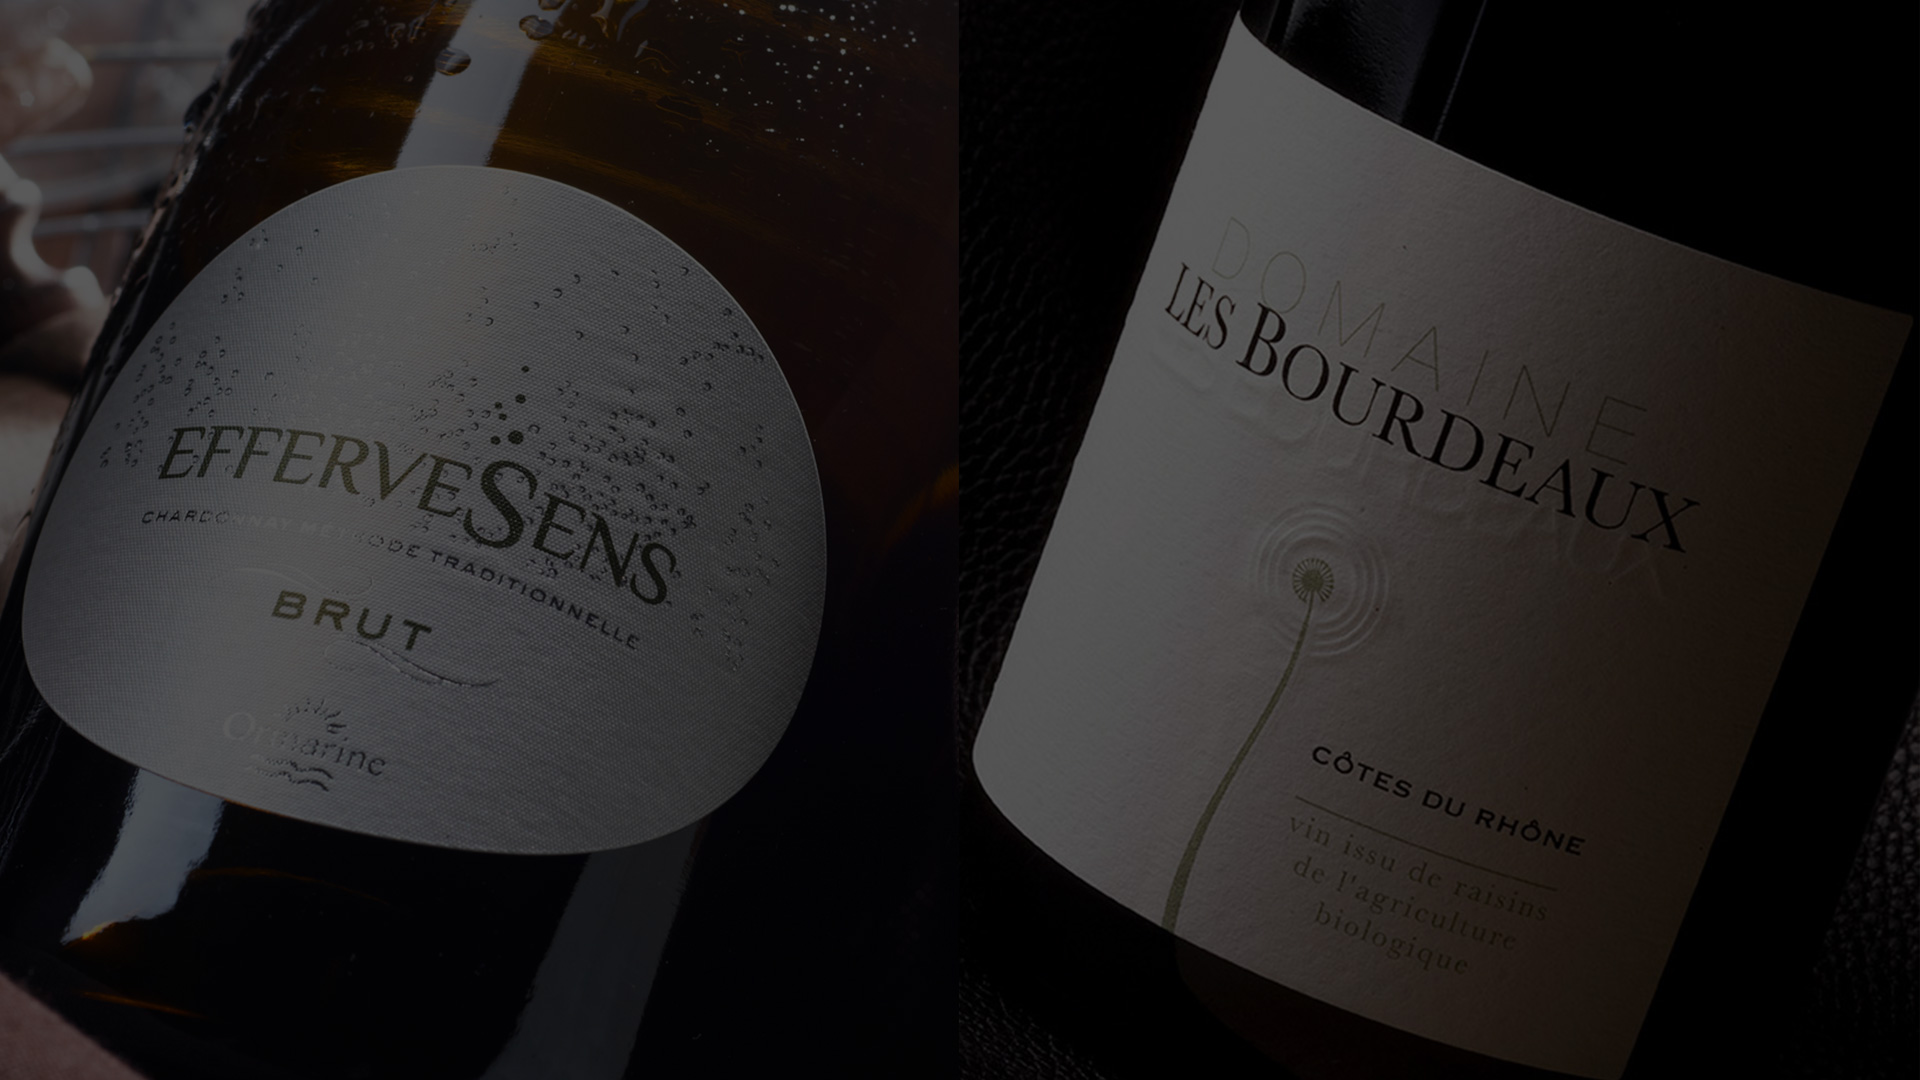
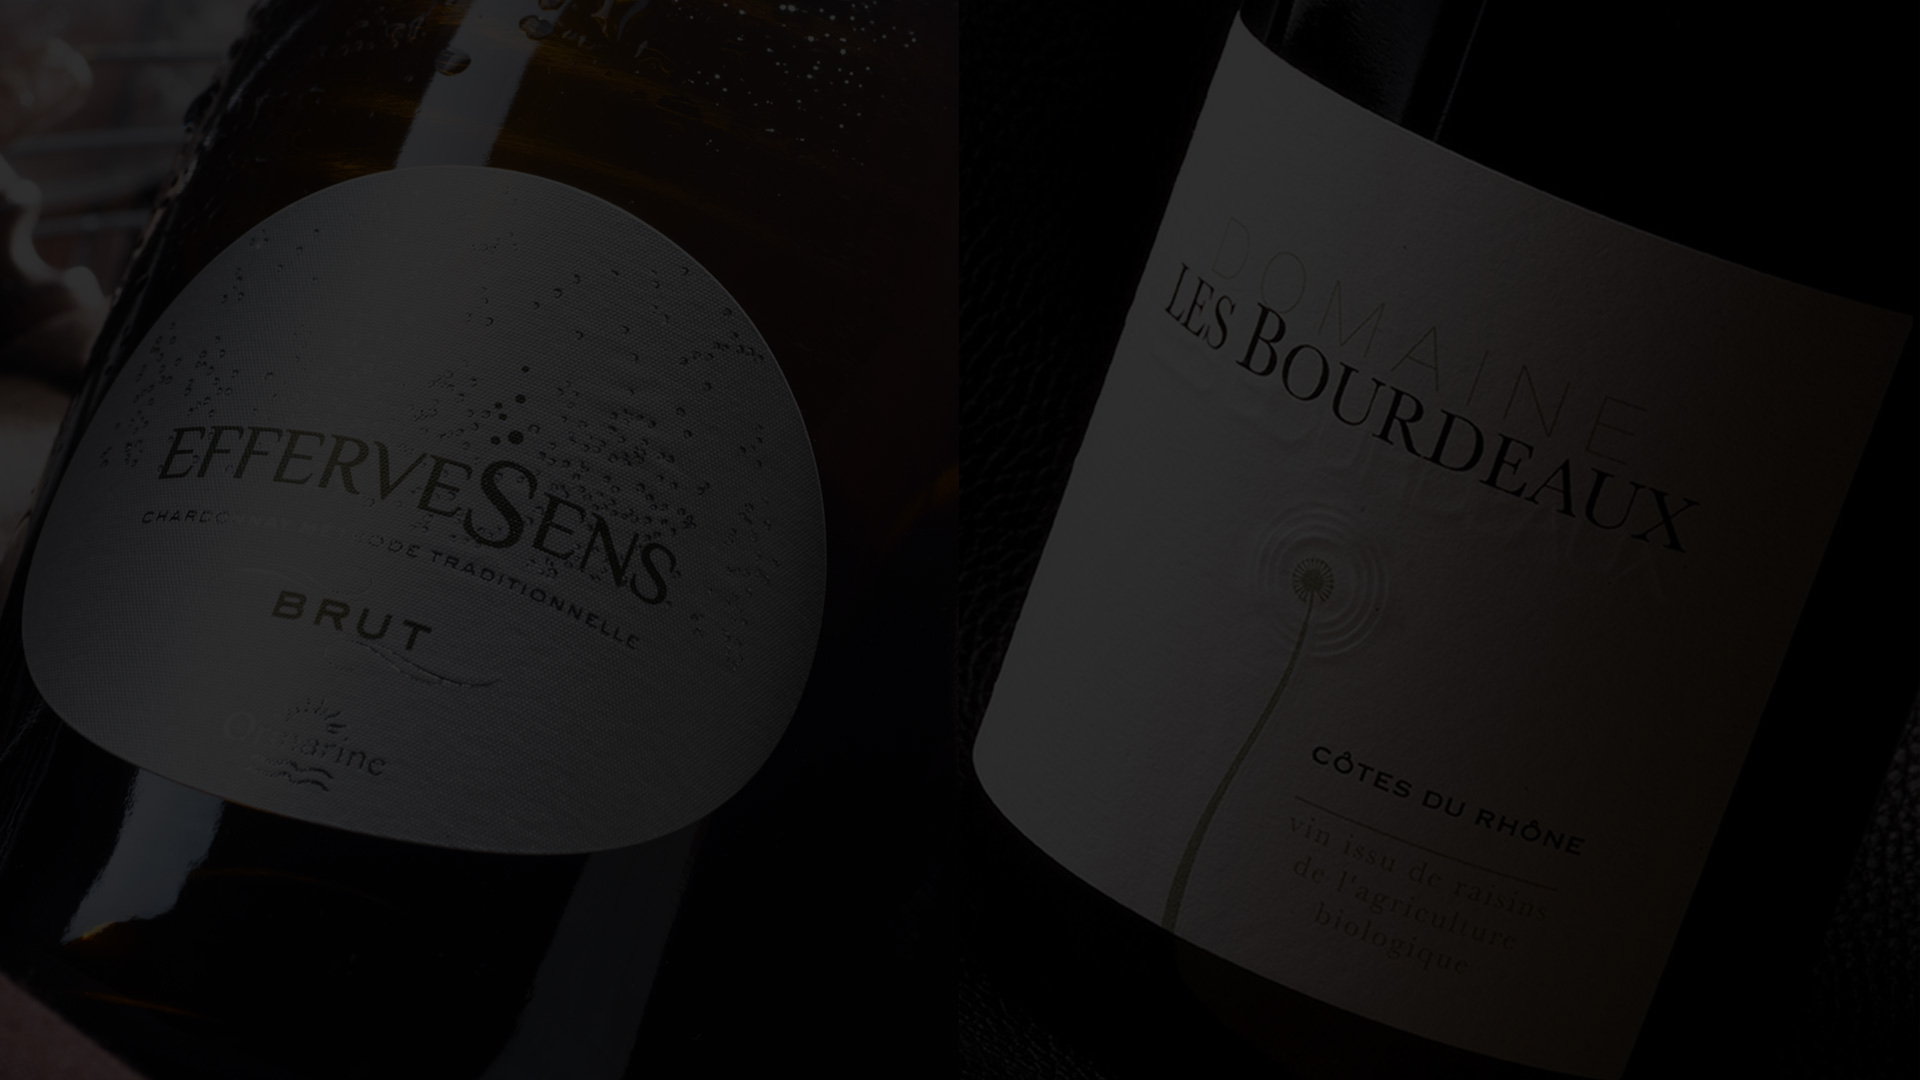
crossfading

diff --git a/src/app/app.component.scss b/src/app/app.component.scss
@@ -1,8 +1,70 @@
+// @-webkit-keyframes changeBckg {
+//     0% {  background-image: url("src/assets/images/EfferveSens_Les-bourdeaux.jpg"); }
+//     50% { background-image: url("src/assets/images/Croix-de-felix_la_bastide_savary.jpg"); }
+//     100% {background-image: url("src/assets/images/Mass-de-Callas_Extrait-de-Lormarine.jpg"); }
+//   }
+  
+//   @keyframes changeBckg {
+//     0% { background-image: url("src/assets/images/EfferveSens_Les-bourdeaux.jpg"); }
+//     50% { background-image: url("src/assets/images/Croix-de-felix_la_bastide_savary.jpg"); }
+//     100% {background-image: url("src/assets/images/Mass-de-Callas_Extrait-de-Lormarine.jpg"); }
+//   }
+  
+//   .container-fluid {
+//     background-size: cover;
+//     margin: 0 auto;
+//     padding-right: 0px;
+//     -webkit-animation: changeBckg 8s ease infinite;
+//     animation: changeBckg 8s ease infinite;
+//   }
+
 .container-fluid {
-    background: url("src/assets/images/EfferveSens_Les-bourdeaux.jpg") #100c08;
+    background: #100c08;
+}
+
+.container-fluid > figure {
+    animation: imageAnimation 18s linear infinite 0s;
+    backface-visibility: hidden;
     background-size: cover;
-    margin: 0 auto;
-    padding-right: 0px;
+    background-position: center center;
+    color: transparent;
+    height: 100%;
+    left: 0px;
+    opacity: 0;
+    position: absolute;
+    top: 0px;
+    width: 100%;
+    z-index: 0;
+  }
+
+  .container-fluid > figure:nth-child(1) { 
+      background-image: url('src/assets/images/EfferveSens_Les-bourdeaux.jpg'); }
+
+.container-fluid > figure:nth-child(2) {
+  animation-delay: 6s;
+  background-image: url('src/assets/images/Croix-de-felix_la_bastide_savary.jpg');
+}
+
+.container-fluid > figure:nth-child(3) {
+  animation-delay: 12s;
+  background-image: url('src/assets/images/Mass-de-Callas_Extrait-de-Lormarine.jpg');
+}
+
+@keyframes 
+imageAnimation {  0% {
+ animation-timing-function: ease-in;
+ opacity: 0;
+}
+ 33% {
+ animation-timing-function: ease-out;
+ opacity: 1;
+}
+ 66% {
+ opacity: 0
+}
+ 100% {
+ opacity: 0
+}
 }
 
 ng-sidebar-container {

diff --git a/src/app/components/packaging/olive-oil/olive-oil.component.html b/src/app/components/packaging/olive-oil/olive-oil.component.html
@@ -1,3 +1,18 @@
-<p>
-  olive-oil works!
-</p>
+<h2>Création d'étiquettes d'huile d'olive</h2>
+
+<h4>Rhonéa</h4>
+
+<div class="box">
+<p>Conception du format et du graphisme d'étiquettes d'huile d'olive, choix des couleurs pour la coopérative <a href="https://www.rhonea.fr/" target="_blank">Rhonéa</a></p>
+
+<img class="img-fluid rhonea" src="assets/images/HO/Rhonea-HO-bouchon.png" alt="Huile d'Olive Rhonéa">
+</div>
+
+
+<h4>Château Saint Louis La Perdrix</h4>
+
+<div class="box">
+<img class="img-fluid perdrix" src="assets/images/HO/SLP-HO-50.png" alt="Huile d'Olive Saint Louis">
+
+<p>Conception du graphisme et choix de la typographie de l'étiquette de l'huile d'olive pour le Château <a href="https://saintlouislaperdrix.com/" target="_blank">Saint Louis La Perdrix</a></p>
+</div>

diff --git a/src/app/components/packaging/olive-oil/olive-oil.component.scss b/src/app/components/packaging/olive-oil/olive-oil.component.scss
@@ -1,0 +1,46 @@
+
+h2 {
+    color: white;
+}
+
+h4 {
+    color: #A8E6CE;
+    padding-top: 30px;
+    padding-bottom: 30px;
+}
+p, a {
+    width: 60%;
+    color: #b2b2b2;
+    font-size: 20px;
+    padding-right: 40px;
+}
+
+img {
+    height: 300px;
+    width: auto;
+    padding-right: 40px;
+}
+
+
+.rhonea {
+    transition: transform 0.5s ease;
+    cursor: zoom-in;
+    
+    &:hover {
+        transform: translate(-40px) scale(2);
+    }
+}
+.perdrix {
+    transition: transform 0.5s ease;
+    cursor: zoom-in;
+    
+    &:hover {
+        transform: translate(40px) scale(2);
+    }
+}
+
+.box {
+    display: flex;
+    align-items:center;
+    width: 80%;
+}

diff --git a/src/app/components/packaging/bottles/bottles.component.scss b/src/app/components/packaging/bottles/bottles.component.scss
@@ -21,16 +21,12 @@ img {
     padding-right: 40px;
 }
 
-img:hover {
-   transform: scale(3) translate(40px);
-}
-
 .montpeyroux {
     transition: transform 0.5s ease;
     cursor: zoom-in;
     
     &:hover {
-        transform: scale(3) translate(-40px);
+        transform: translate(-40px) scale(2);
     }
 }
 .aumieres {
@@ -38,7 +34,7 @@ img:hover {
     cursor: zoom-in;
     
     &:hover {
-        transform: scale(3) translate(40px);
+        transform: translate(50px) scale(2) ;
     }
 }
 

diff --git a/src/app/components/packaging/boxes/boxes.component.scss b/src/app/components/packaging/boxes/boxes.component.scss
@@ -22,16 +22,12 @@ img {
     padding-right: 40px;
 }
 
-img:hover {
-   transform: scale(3) translate(40px);
-}
-
 .castelcubi {
     transition: transform 0.5s ease;
     cursor: zoom-in;
     
     &:hover {
-        transform: scale(2) translate(-40px);
+        transform: translate(-40px) scale(2);
     }
 }
 .coopains {
@@ -39,7 +35,7 @@ img:hover {
     cursor: zoom-in;
     
     &:hover {
-        transform: scale(2) translate(40px);
+        transform: translate(40px) scale(2);
     }
 }
 

diff --git a/src/app/components/packaging/cardboard-pack/cardboard-pack.component.scss b/src/app/components/packaging/cardboard-pack/cardboard-pack.component.scss
@@ -21,16 +21,12 @@ img {
     padding-right: 40px;
 }
 
-img:hover {
-   transform: scale(3) translate(40px);
-}
-
 .rhonea {
     transition: transform 0.5s ease;
     cursor: zoom-in;
     
     &:hover {
-        transform: scale(2) translate(-40px);
+        transform: translate(-40px) scale(2);
     }
 }
 .daronton {
@@ -38,7 +34,7 @@ img:hover {
     cursor: zoom-in;
     
     &:hover {
-        transform: scale(2) translate(40px);
+        transform: translate(40px) scale(2);
     }
 }
 

diff --git a/src/app/app.component.html b/src/app/app.component.html
@@ -1,4 +1,7 @@
 <div class="container-fluid" id="bgDiv">
+  <figure></figure>
+	<figure></figure>
+	<figure></figure>
 <ng-sidebar-container (onBackdropClicked)="_onBackdropClicked()">
  
     <!-- A sidebar -->
